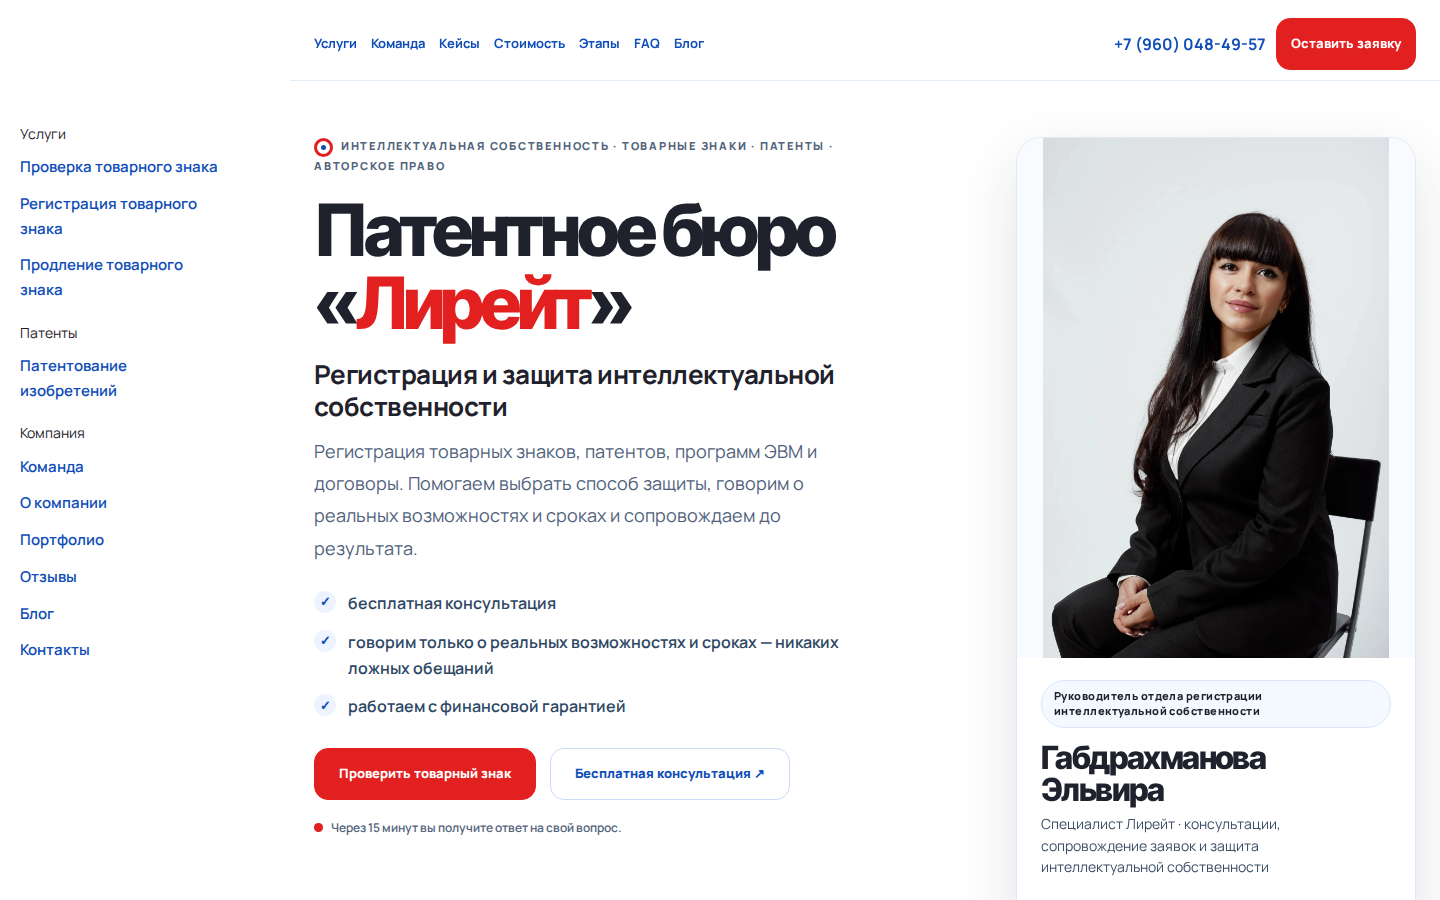
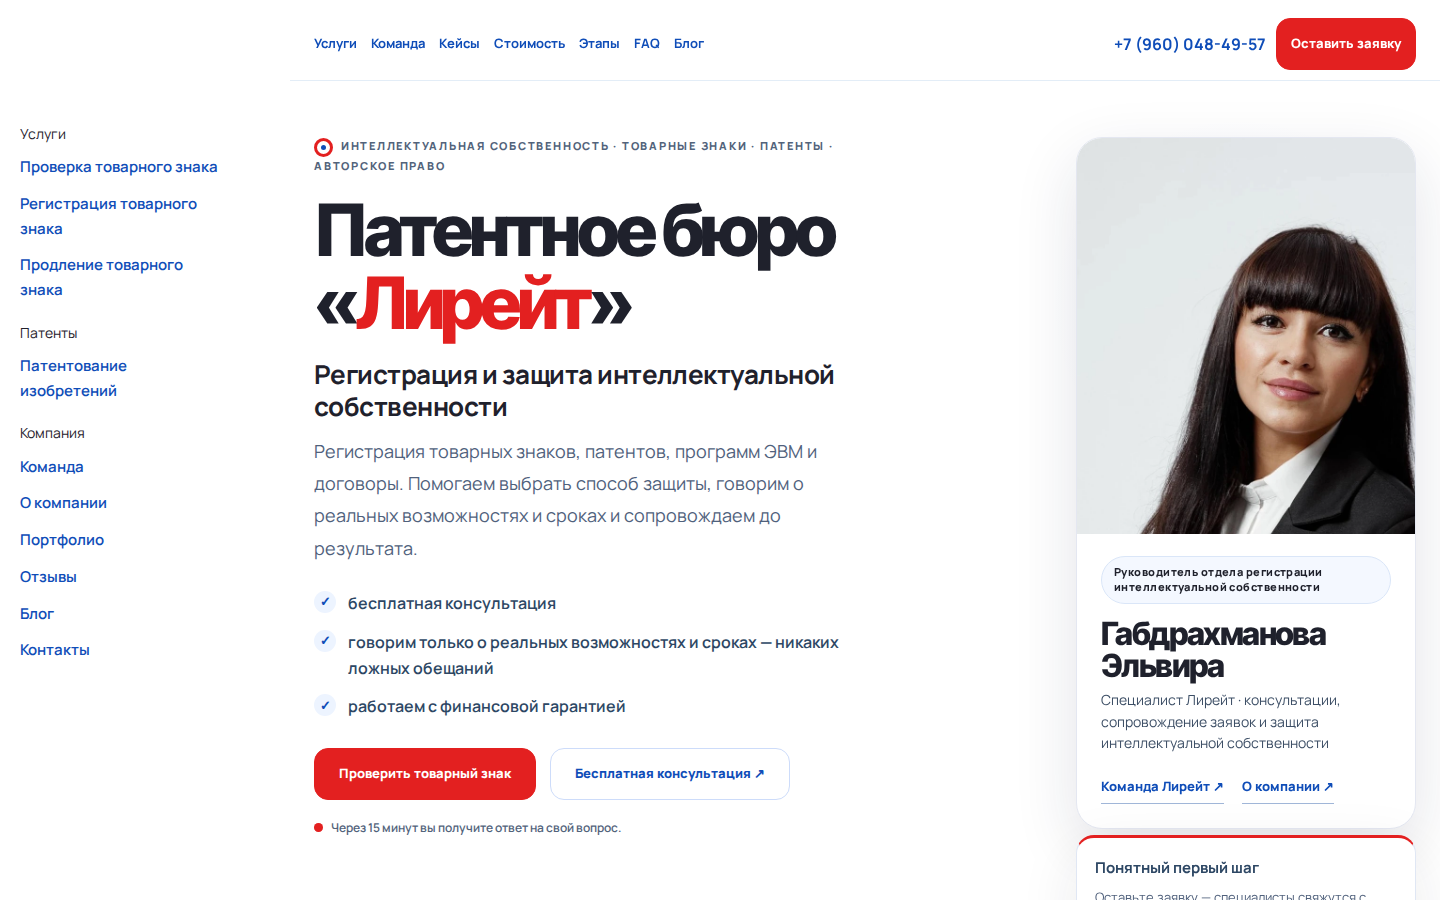
feat(pr-a): hero-портрет крупнее (cover+scale), HOME_CSS r24, скрины

Changed region(s): [[0.7188, 0.2178, 1.0, 1.0], [0.7188, 0.1556, 0.75, 0.3422]]

diff --git a/template/css/lireate-home-light-v4.css b/template/css/lireate-home-light-v4.css
@@ -204,6 +204,7 @@ body.lireate-home-light-v4.lireate-theme-light-v4 .lh4-root .expert-photo{positi
 body.lireate-home-light-v4.lireate-theme-light-v4 .lh4-root .expert-photo picture{display:block;width:100%;height:100%}
 body.lireate-home-light-v4.lireate-theme-light-v4 .lh4-root .expert-photo img{object-fit:contain;object-position:center top;width:100%;height:100%;max-height:100%;transform:none;transition:none}
 body.lireate-home-light-v4.lireate-theme-light-v4 .lh4-root .expert-card:hover .expert-photo img{transform:none}
+body.lireate-home-light-v4.lireate-theme-light-v4 .lh4-root .hero-right .expert-card:hover .expert-photo img{transform:scale(1.78) !important}
 body.lireate-home-light-v4.lireate-theme-light-v4 .lh4-root .photo-shine{position:absolute;inset:0;z-index:2;pointer-events:none;background:linear-gradient(110deg,transparent 30%,rgba(255,255,255,.12) 50%,transparent 70%);transform:translateX(-130%);transition:transform 1s ease}
 body.lireate-home-light-v4.lireate-theme-light-v4 .lh4-root .expert-card:hover .photo-shine{transform:translateX(140%)}
 body.lireate-home-light-v4.lireate-theme-light-v4 .lh4-root .expert-mini{border-top:3px solid var(--brand-red)}
@@ -752,19 +753,42 @@ body.lireate-home-light-v4.lireate-theme-light-v4 .lh4-root .hero-grid{align-ite
 body.lireate-home-light-v4.lireate-theme-light-v4 .lh4-root .hero-grid > .reveal:first-child{padding-top:0;margin-top:0}
 body.lireate-home-light-v4.lireate-theme-light-v4 .lh4-root .hero-right .expert-card{align-self:start}
 }
-/* r23: портрет в первый экран 1440×900 — contain, ограничение высоты без обрезки */
+/* r24: портрет hero — кадр по грудь, лицо крупнее (cover + scale, макушка в кадре) */
+body.lireate-home-light-v4.lireate-theme-light-v4 .lh4-root .hero-right .expert-photo picture{
+  display:block;
+  width:100%;
+  height:100%;
+  overflow:hidden;
+}
+body.lireate-home-light-v4.lireate-theme-light-v4 .lh4-root .hero-right .expert-photo img{
+  object-fit:cover !important;
+  object-position:50% 2% !important;
+  transform:scale(1.78) !important;
+  transform-origin:50% 12% !important;
+}
 @media (min-width: 861px) {
-body.lireate-home-light-v4.lireate-theme-light-v4 .lh4-root .hero-right{max-width:min(42vw,400px);justify-self:end}
+body.lireate-home-light-v4.lireate-theme-light-v4 .lh4-root .hero-right{max-width:min(34vw,340px);justify-self:end}
 body.lireate-home-light-v4.lireate-theme-light-v4 .lh4-root .hero-right .expert-photo{
-  aspect-ratio:683/1024;
-  max-height:min(58vh,520px);
+  aspect-ratio:10/13;
+  max-height:min(44vh,400px);
   width:100%;
   height:auto;
 }
-body.lireate-home-light-v4.lireate-theme-light-v4 .lh4-root .expert-photo picture,
-body.lireate-home-light-v4.lireate-theme-light-v4 .lh4-root .expert-photo img{
+body.lireate-home-light-v4.lireate-theme-light-v4 .lh4-root .hero-right .expert-photo picture{
+  max-height:min(44vh,400px);
+}
+body.lireate-home-light-v4.lireate-theme-light-v4 .lh4-root .hero-right .expert-photo img{
   width:100%;
   height:100%;
-  max-height:min(58vh,520px);
+  max-height:min(44vh,400px);
+}
+}
+@media (max-width: 860px) {
+body.lireate-home-light-v4.lireate-theme-light-v4 .lh4-root .hero-right .expert-photo{
+  aspect-ratio:10/13;
+  max-height:min(68vw,380px);
+}
+body.lireate-home-light-v4.lireate-theme-light-v4 .lh4-root .hero-right .expert-photo img{
+  transform:scale(1.55) !important;
 }
 }

diff --git a/scripts/test_lireate_light_v4_shared_asset_version.py b/scripts/test_lireate_light_v4_shared_asset_version.py
@@ -86,7 +86,7 @@ class LightV4SharedAssetVersionTests(unittest.TestCase):
         """Home hero CSS has its own cache-bust token (r21+) in the main.php head snippet."""
         import lireate_home_light_v4_install_lib as home_lib
 
-        self.assertEqual("20261126r23", ver.HOME_CSS_VERSION)
+        self.assertEqual("20261126r24", ver.HOME_CSS_VERSION)
         snippet = home_lib._head_snippet()
         self.assertIn(
             "/template/css/lireate-home-light-v4.css?v={0}".format(ver.HOME_CSS_VERSION), snippet

diff --git a/pages/home/_preview/cms-shell.php b/pages/home/_preview/cms-shell.php
@@ -9,7 +9,7 @@ putenv('LIREATE_PUBLIC_SITE_URL');
 putenv('LIREATE_PUBLIC_SITE_HOST');
 require_once $repo_root . '/pages/_shared/lireate-preview-bootstrap.php';
 require_once $repo_root . '/pages/home/_shared/lireate-home-config.php';
-$lh_preview_v = defined('LIREATE_HOME_CSS_VERSION') ? LIREATE_HOME_CSS_VERSION : '20261126r23';
+$lh_preview_v = defined('LIREATE_HOME_CSS_VERSION') ? LIREATE_HOME_CSS_VERSION : '20261126r24';
 if (!defined('LIREATE_HOME_PREVIEW')) {
     define('LIREATE_HOME_PREVIEW', true);
 }

diff --git a/scripts/lireate_light_v4_asset_version.py b/scripts/lireate_light_v4_asset_version.py
@@ -5,4 +5,4 @@ MAIN_JS_QUERY_VERSION = "20261126r20"
 # Home hero CSS only (template/css/lireate-home-light-v4.css): bumped separately so live
 # cache-bust is a one-line change in template/main.php (head snippet marker
 # lireate-home-light-v4-install-head:v1).
-HOME_CSS_VERSION = "20261126r23"
+HOME_CSS_VERSION = "20261126r24"

diff --git a/pages/home/_shared/lireate-home-config.php b/pages/home/_shared/lireate-home-config.php
@@ -50,5 +50,5 @@ if (!defined('LIREATE_HOME_TEMPLATE_VERSION')) {
     define('LIREATE_HOME_TEMPLATE_VERSION', '20261126r20');
 }
 if (!defined('LIREATE_HOME_CSS_VERSION')) {
-    define('LIREATE_HOME_CSS_VERSION', '20261126r23');
+    define('LIREATE_HOME_CSS_VERSION', '20261126r24');
 }

diff --git a/template/page/home/lireate-home-config.php b/template/page/home/lireate-home-config.php
@@ -50,5 +50,5 @@ if (!defined('LIREATE_HOME_TEMPLATE_VERSION')) {
     define('LIREATE_HOME_TEMPLATE_VERSION', '20261126r20');
 }
 if (!defined('LIREATE_HOME_CSS_VERSION')) {
-    define('LIREATE_HOME_CSS_VERSION', '20261126r23');
+    define('LIREATE_HOME_CSS_VERSION', '20261126r24');
 }

diff --git a/docs/screenshots/pr-a-home-hero/REPORT.ru.md b/docs/screenshots/pr-a-home-hero/REPORT.ru.md
@@ -6,7 +6,7 @@
 
 | Файл | Суть |
 |------|------|
-| `template/css/lireate-home-light-v4.css` | `hero-grid` → `align-items:start`; портрет 683×1024, `object-fit:contain`, max-height в первый экран; **HOME_CSS r23** |
+| `template/css/lireate-home-light-v4.css` | Hero-портрет: `object-fit:cover`, `object-position:50% 2%`, `scale(1.78)` — кадр по грудь; **HOME_CSS r24** |
 | `template/css/lireate-cms-pages-light-v4.css` | preview: `wrapper` с отступом под `#leftSideBar` ≥1151px |
 | `pages/home/_shared/lireate-home-data.php` | портрет с диска DOCROOT (не live URL, если JPG есть) |
 | `template/images/home/gabdrakhmanova-elvira-2026-11.jpg` | Оригинал 683×1024 (байт-в-байт с `design-proposals/incoming/…`) |
